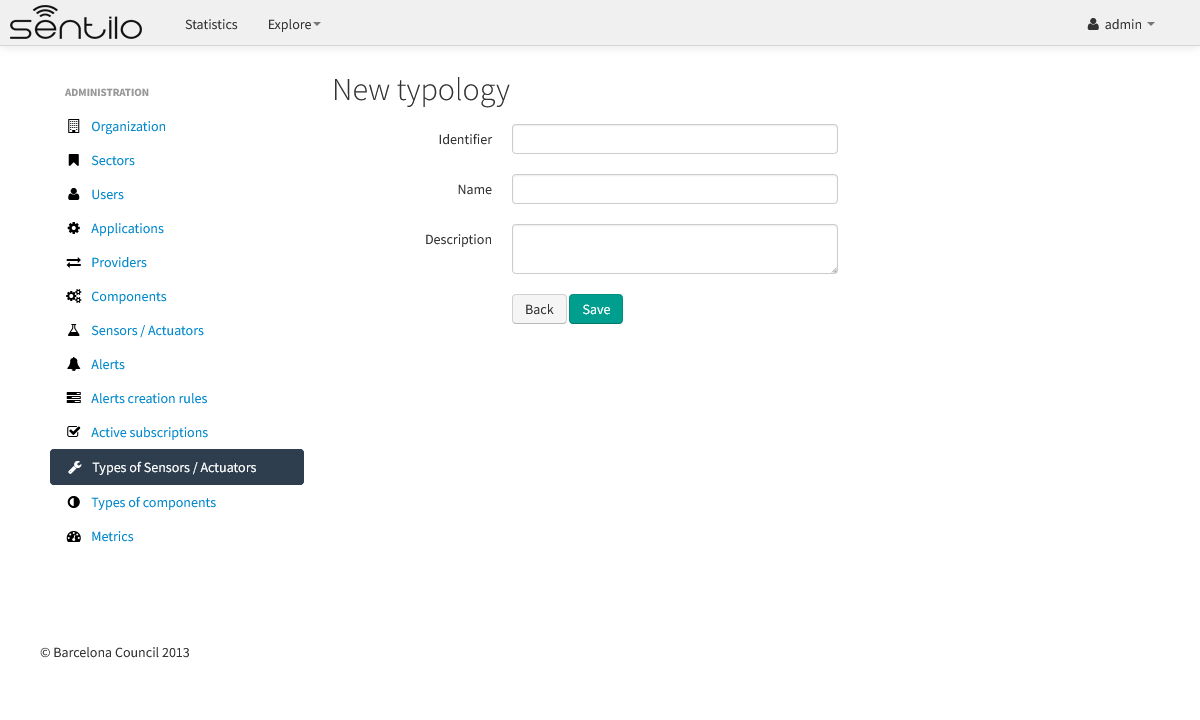
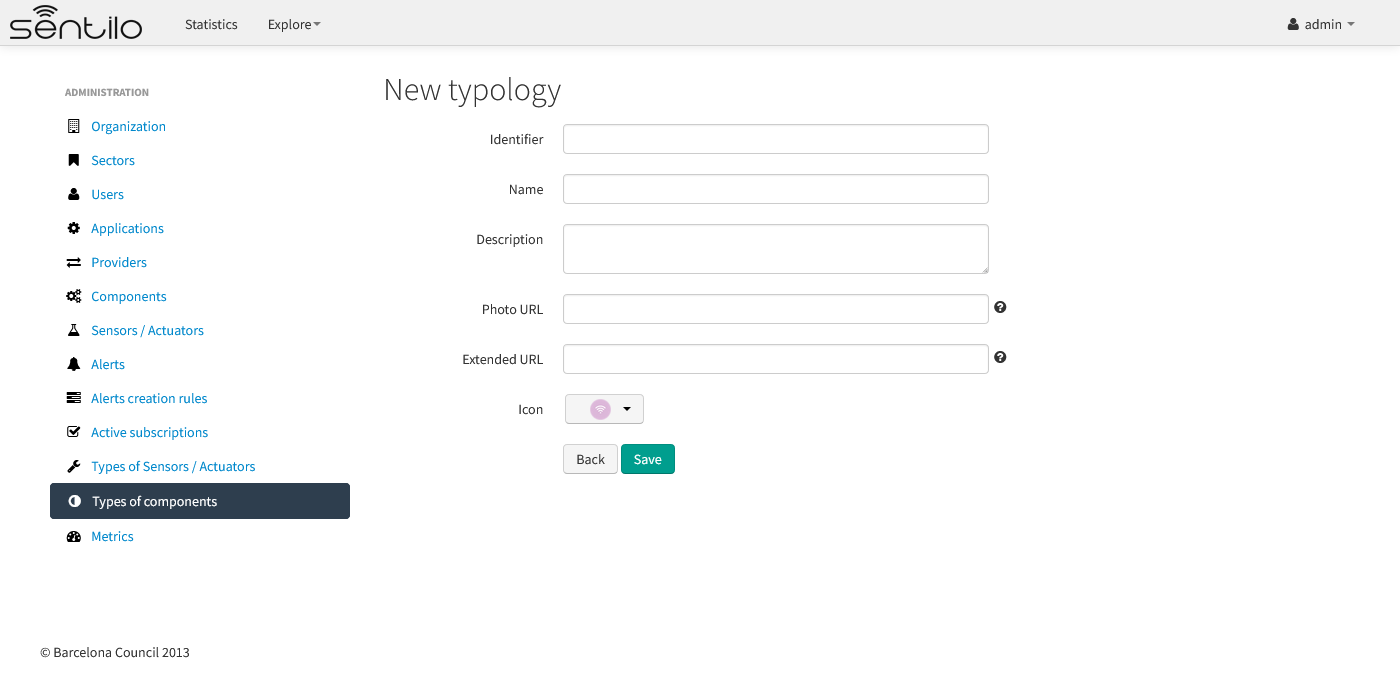
www

diff --git a/docs/catalog_and_maps/administration_console.rst b/docs/catalog_and_maps/administration_console.rst
@@ -1486,12 +1486,18 @@ It’s possible to delete elements massively through the component list.
 | Update date           | Last update date      | Automatically         |
 |                       |                       | generated             |
 +-----------------------+-----------------------+-----------------------+
-| Photo                 | Related photo         | Generic picture for   |
+| Photo URL             | Related photo         | Generic picture for   |
 |                       |                       | the component type,   |
 |                       |                       | will be used if there |
 |                       |                       | isn't any specified   |
 |                       |                       | for the component     |
 |                       |                       | itself                |
++-----------------------+-----------------------+-----------------------+
+| Extended URL          | Define an external    | Here you can inform   |
+|                       | details page for the  | an external url that  |
+|                       | component type        | will replace the      |
+|                       |                       | default details       |
+|                       |                       | component type page   |
 +-----------------------+-----------------------+-----------------------+
 | Icon                  | Related icon          | Value list from the   |
 |                       |                       | deployed icon list.   |
@@ -1499,6 +1505,16 @@ It’s possible to delete elements massively through the component list.
 |                       |                       | representing the      |
 |                       |                       | component             |
 +-----------------------+-----------------------+-----------------------+
+
+.. note::
+
+   The extended URL allows to replace the component details, integrating an external 
+   page within the general framework of the application. It must be an absolute URL 
+   and accessible without authentication (only http or https protocols are accepted). 
+   It will be used for all the typology components, except for the ones configuring 
+   their own URL. It can include the following wildcards ${component_id} and/or ${provider_id}, 
+   which will be replaced at execution time.
+
 
 .. _component-types-list:
 
@@ -1542,11 +1558,11 @@ production monitoring, we recommend to also setup some process watcher and alert
 
 Example of the timeline:
 
-|metrics_190_001.png|
+.. image:: /_static/images/catalog_and_maps/metrics_190_001.png
 
 Example of dashboard:
 
-|metrics_190_002.png|
+.. image:: /_static/images/catalog_and_maps/metrics_190_002.png
 
 .. note::
 
